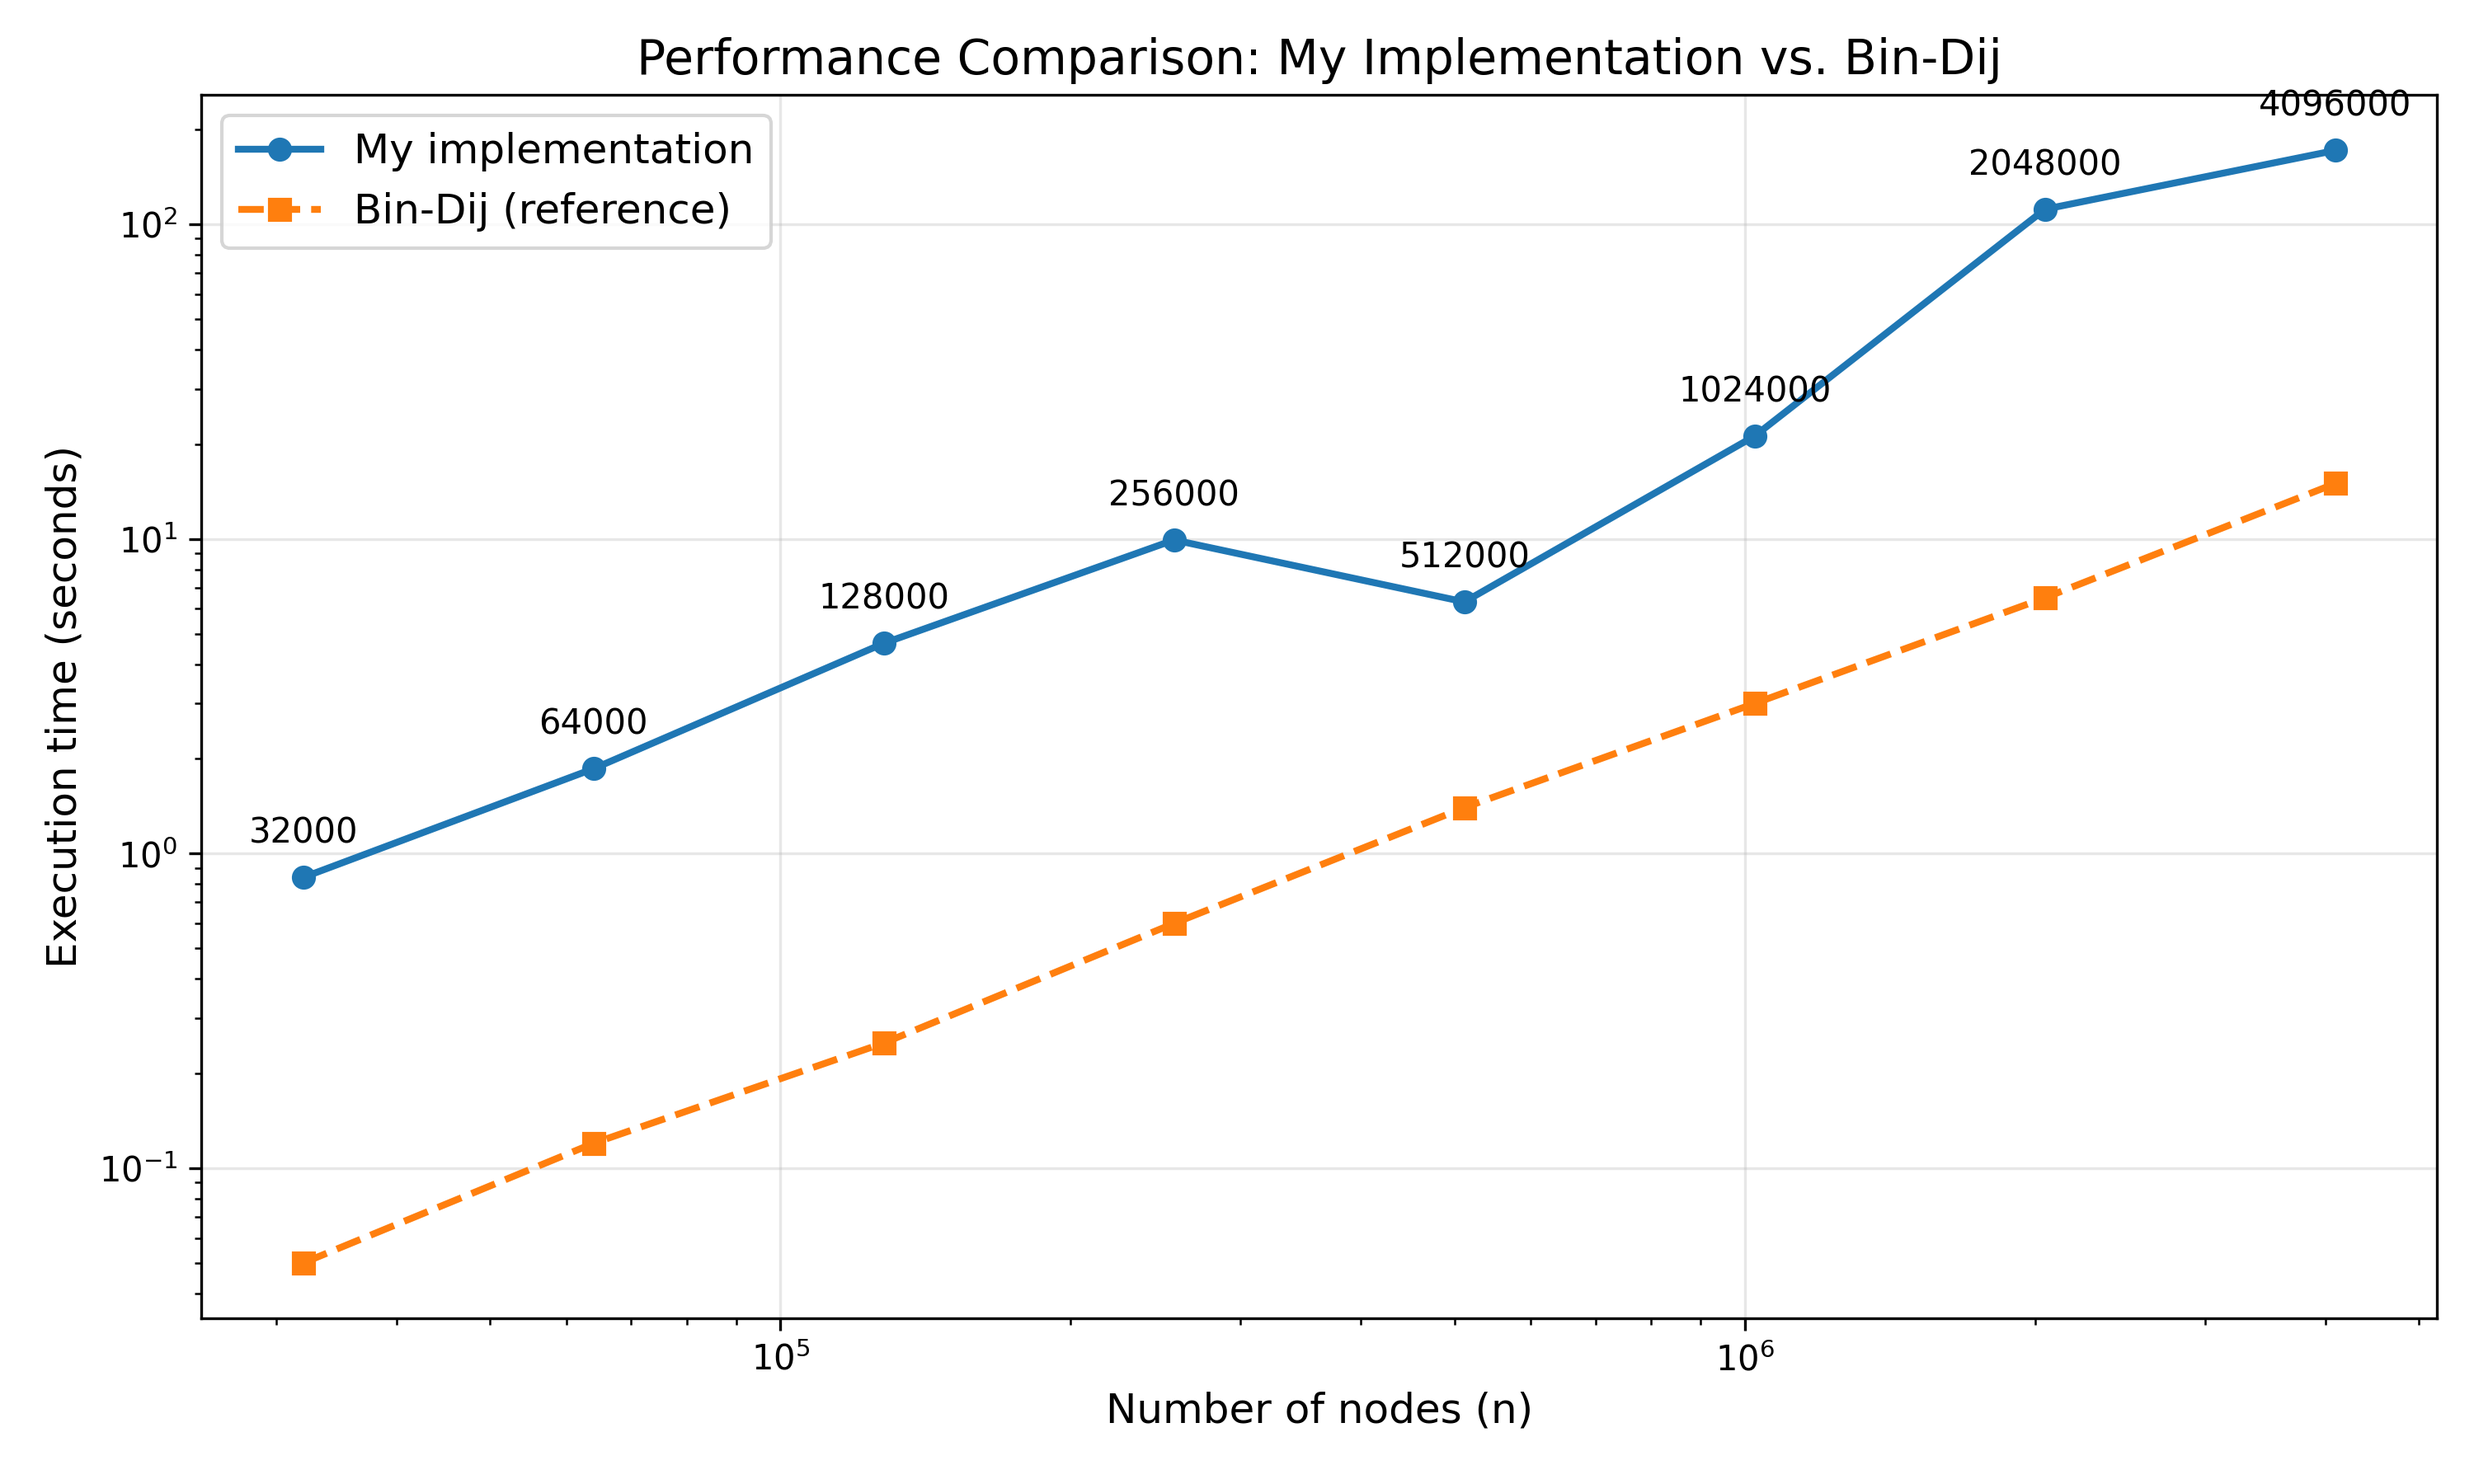
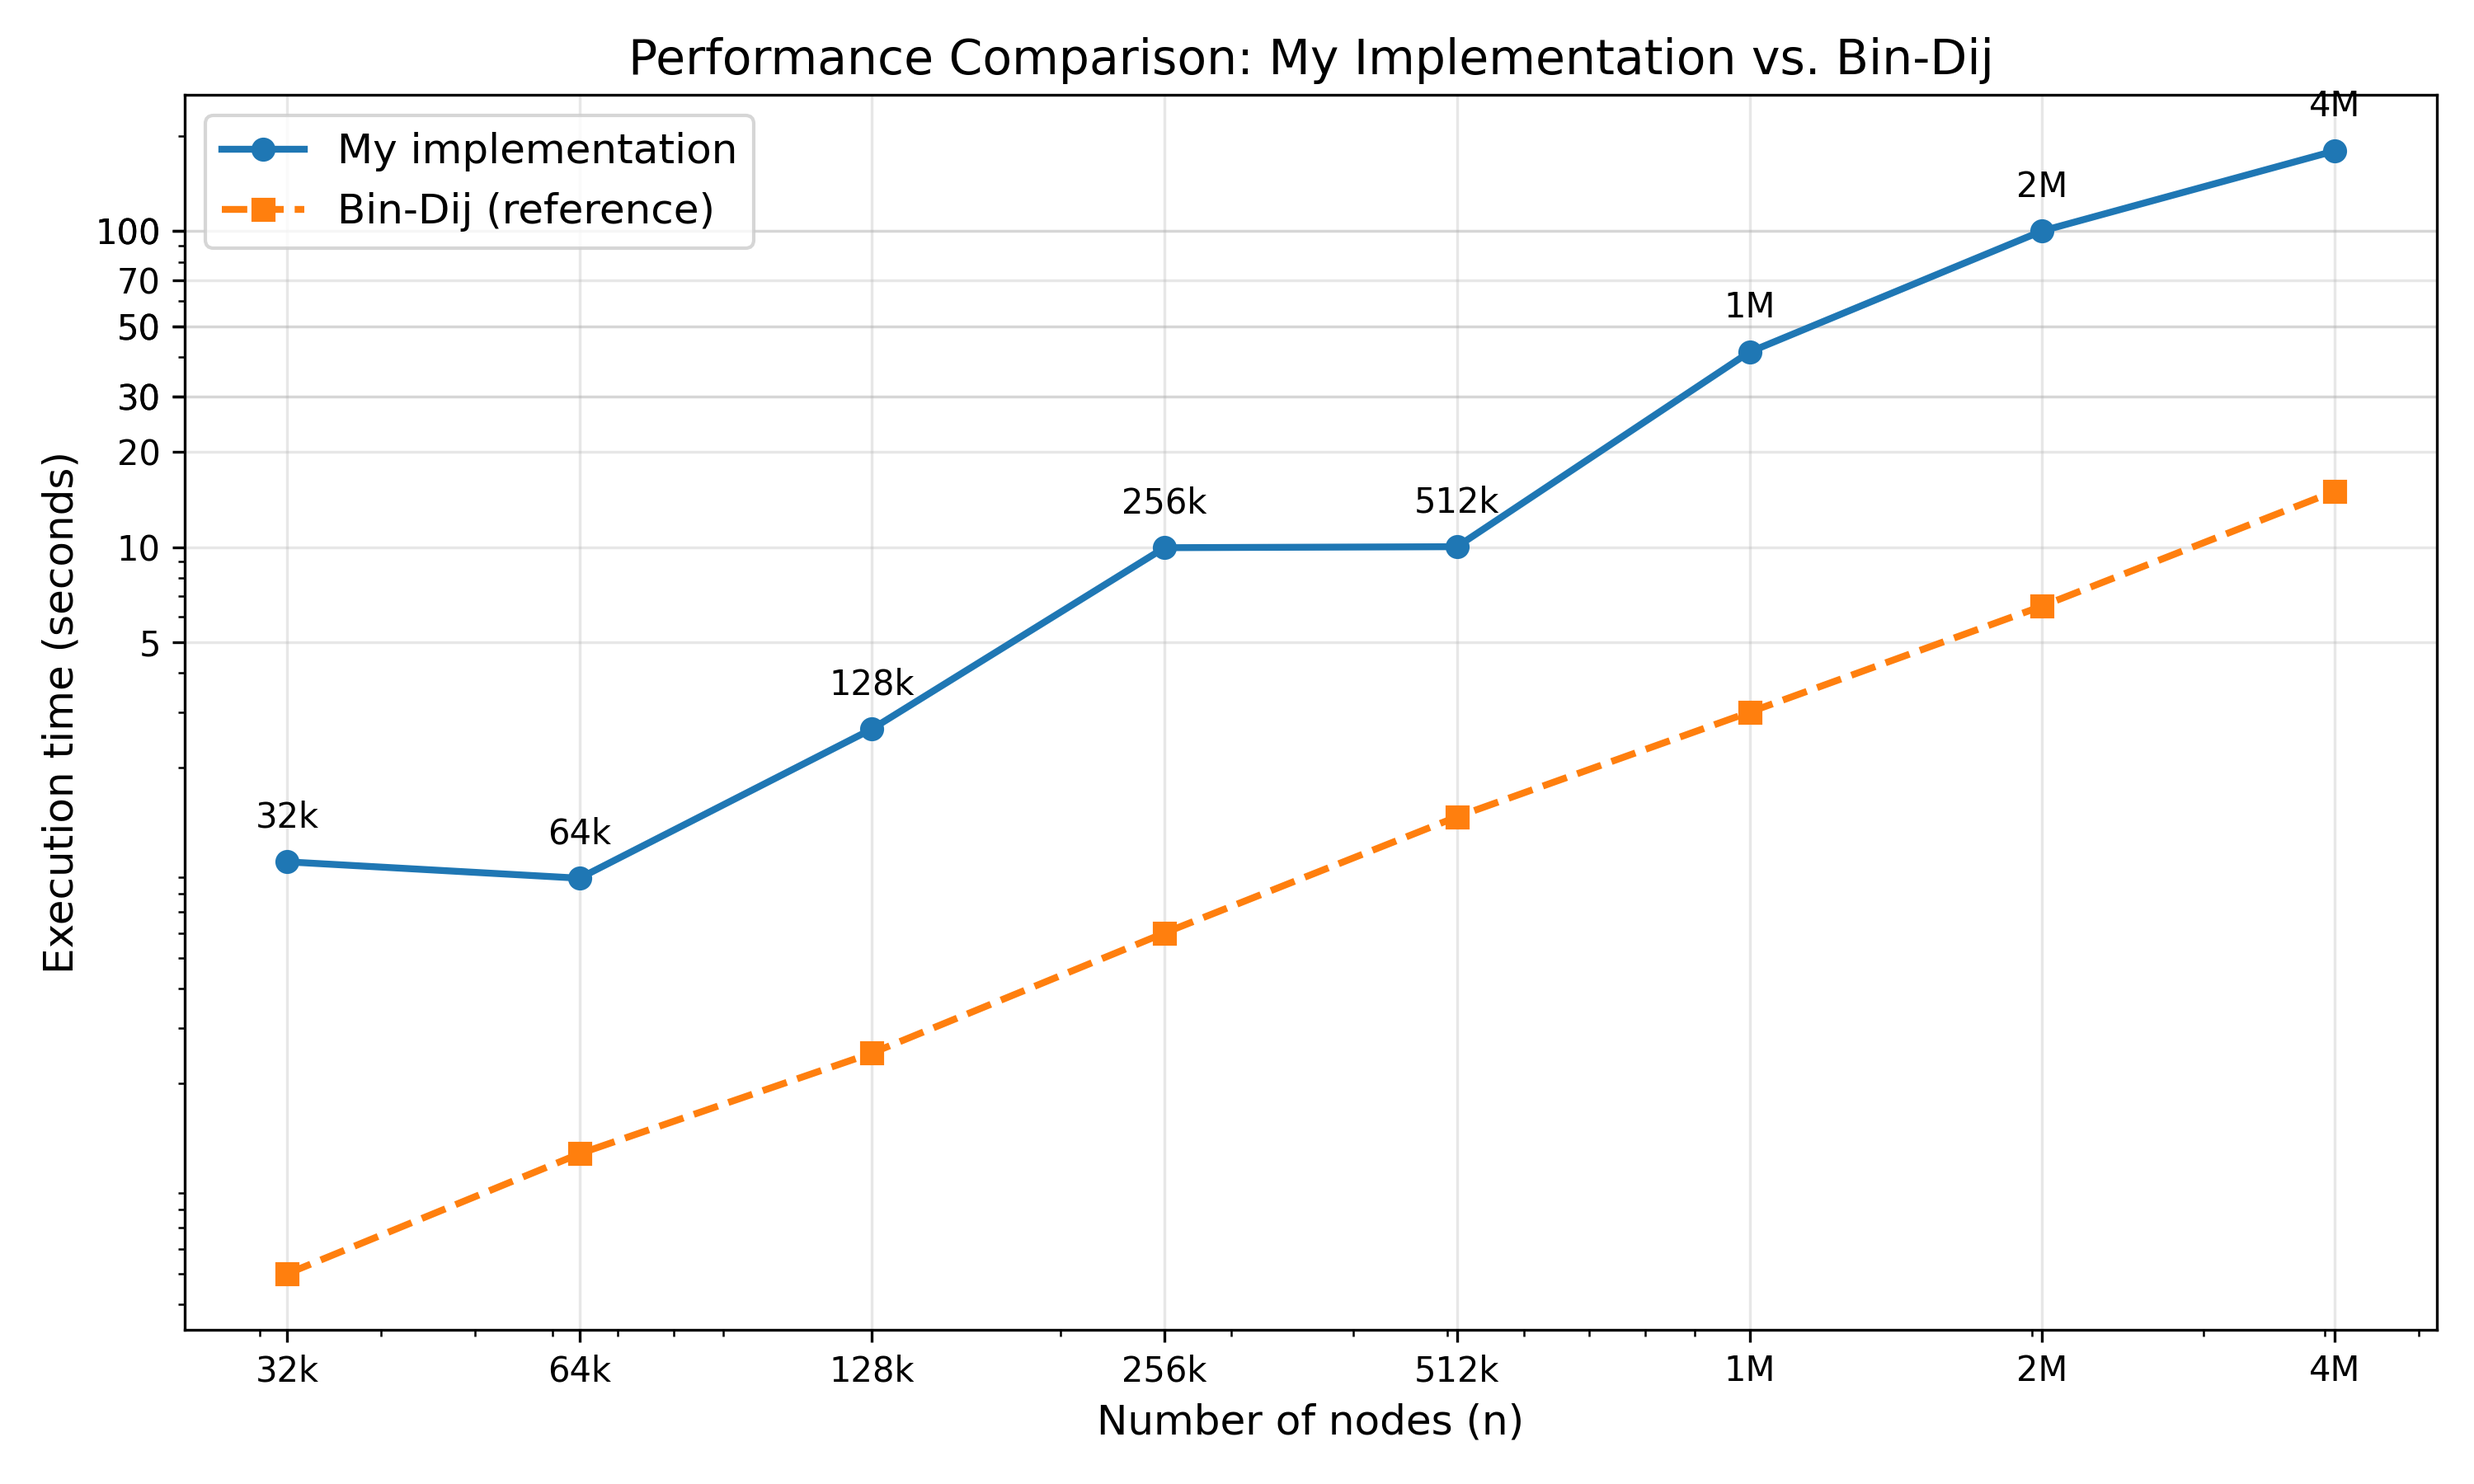
refactor: updated axis in benchmark graph

diff --git a/benchmark_graph.py b/benchmark_graph.py
@@ -1,5 +1,6 @@
 import matplotlib.pyplot as plt
 import benchmark
+from matplotlib.ticker import FuncFormatter, ScalarFormatter
 
 def plot_comparative(results, graph_sizes):
     reference_values = {
@@ -24,17 +25,41 @@ def plot_comparative(results, graph_sizes):
     x_ref = [r[0] for r in reference_results]
     y_ref = [r[1] for r in reference_results]
     
+    min_y = min(min(y_mine), min(y_ref)) if y_mine and y_ref else 5.00
+    max_y = max(max(y_mine), max(y_ref)) if y_mine and y_ref else 15.00
+    
     plt.loglog(x_mine, y_mine, 'o-', label='My implementation', linewidth=2)
     plt.loglog(x_ref, y_ref, 's--', label='Bin-Dij (reference)', linewidth=2)
+    
+    def format_k(x, pos):
+        if x >= 1000000:
+            return f"{int(x/1000000)}M"
+        elif x >= 1000:
+            return f"{int(x/1000)}k"
+        return str(int(x))
+    
+    plt.gca().xaxis.set_major_formatter(FuncFormatter(format_k))
+    plt.gca().set_xticks(graph_sizes)
+    
+    scalar_formatter = ScalarFormatter()
+    scalar_formatter.set_scientific(False)
+    plt.gca().yaxis.set_major_formatter(scalar_formatter)
+    
+    y_ticks = [ 5, 10, 20, 30, 50, 70, 100]
+    
+    if max_y > 15:
+        y_ticks.extend([ 30, 50, 100])
+    
+    plt.gca().set_yticks(y_ticks)
     
     plt.title('Performance Comparison: My Implementation vs. Bin-Dij', fontsize=14)
     plt.xlabel('Number of nodes (n)', fontsize=12)
     plt.ylabel('Execution time (seconds)', fontsize=12)
     plt.grid(True, alpha=0.3)
     plt.legend(fontsize=12)
-    
+
     for i, txt in enumerate(x_mine):
-        plt.annotate(f"{txt}", (x_mine[i], y_mine[i]), 
+        plt.annotate(format_k(txt, None), (x_mine[i], y_mine[i]), 
                      textcoords="offset points", xytext=(0,10), ha='center')
     
     plt.tight_layout()

diff --git a/benchmark.py b/benchmark.py
@@ -17,7 +17,7 @@ def benchmark(gaphLen):
         end = time.time()
         total = end-start
         
-        print(f"{gaphLen[n]} -> {total} sec")
+        print(f"{gaphLen[n]} -> {total:2f} sec")
         
         results.append((n, total))
         
